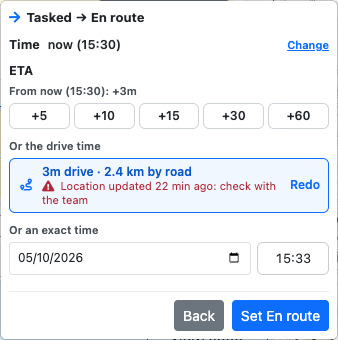
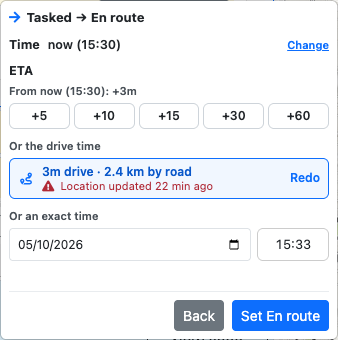
LAD drive time: drop the "check with the team" wording
The coloured location age already says the fix is old.

diff --git a/src/pages/tasking/models/Tasking.js b/src/pages/tasking/models/Tasking.js
@@ -917,7 +917,7 @@ export function Tasking(data = {}) {
         if (d && d.error) return "Set the ETA by hand";
         if (self.driveTimeOutdated()) return "New location since: Redo to update";
         const used = usedFix();
-        if (used) return used.state !== "fresh" ? `Location ${used.ageLabel}: check with the team` : `Location ${used.ageLabel}`;
+        if (used) return `Location ${used.ageLabel}`;
         return `Location ${src.ageLabel}`;
     });
     // Freshness grade of the fix the row is talking about.

diff --git a/src/pages/tasking/models/Tasking.test.js b/src/pages/tasking/models/Tasking.test.js
@@ -1087,7 +1087,7 @@ describe('drive-time ETA', () => {
     await vi.waitFor(() => expect(t.driveTime().minutes).toBe(18));
     expect(t.eta()).toBe('2026-06-15T10:18');
     expect(t.driveRowTitle()).toBe('18m drive · 12.3 km by road');
-    expect(t.driveRowDetail()).toBe('Location updated 20 min ago: check with the team');
+    expect(t.driveRowDetail()).toBe('Location updated 20 min ago');
     expect(t.driveRowCss()).toBe('tsm-drive--stale tsm-drive--done');
     expect(t.driveRowAction()).toBe('Redo');
   });

diff --git a/docs/lad/tasking.md b/docs/lad/tasking.md
@@ -86,7 +86,7 @@ When setting an ETA, the **Or the drive time** row works out how long the team w
 - 6 to 15 minutes old, it turns amber with a warning sign.
 - Over 15 minutes old, or if the update time isn't known, it turns red.
 
-Once the ETA is set, the row shows the drive time and road distance, e.g. *18m drive · 12.3 km by road*, and if the location was old it adds *check with the team*. If the asset reports a new location while the menu is open, the ETA isn't changed: the row says *New location since: Redo to update*. Click **Redo** to work it out again from the new location, or adjust the ETA with the quick buttons or an exact time. The row is greyed out if the team has no asset with a location, or the incident has no location. It's in both the status menu (going **En route**) and **Change ETA**.
+Once the ETA is set, the row shows the drive time and road distance, e.g. *18m drive · 12.3 km by road*, still with the age of the location it started from. If the asset reports a new location while the menu is open, the ETA isn't changed: the row says *New location since: Redo to update*. Click **Redo** to work it out again from the new location, or adjust the ETA with the quick buttons or an exact time. The row is greyed out if the team has no asset with a location, or the incident has no location. It's in both the status menu (going **En route**) and **Change ETA**.
 
 ![Drive time with an old asset location](images/tasking-status-drive-time.png)
 
